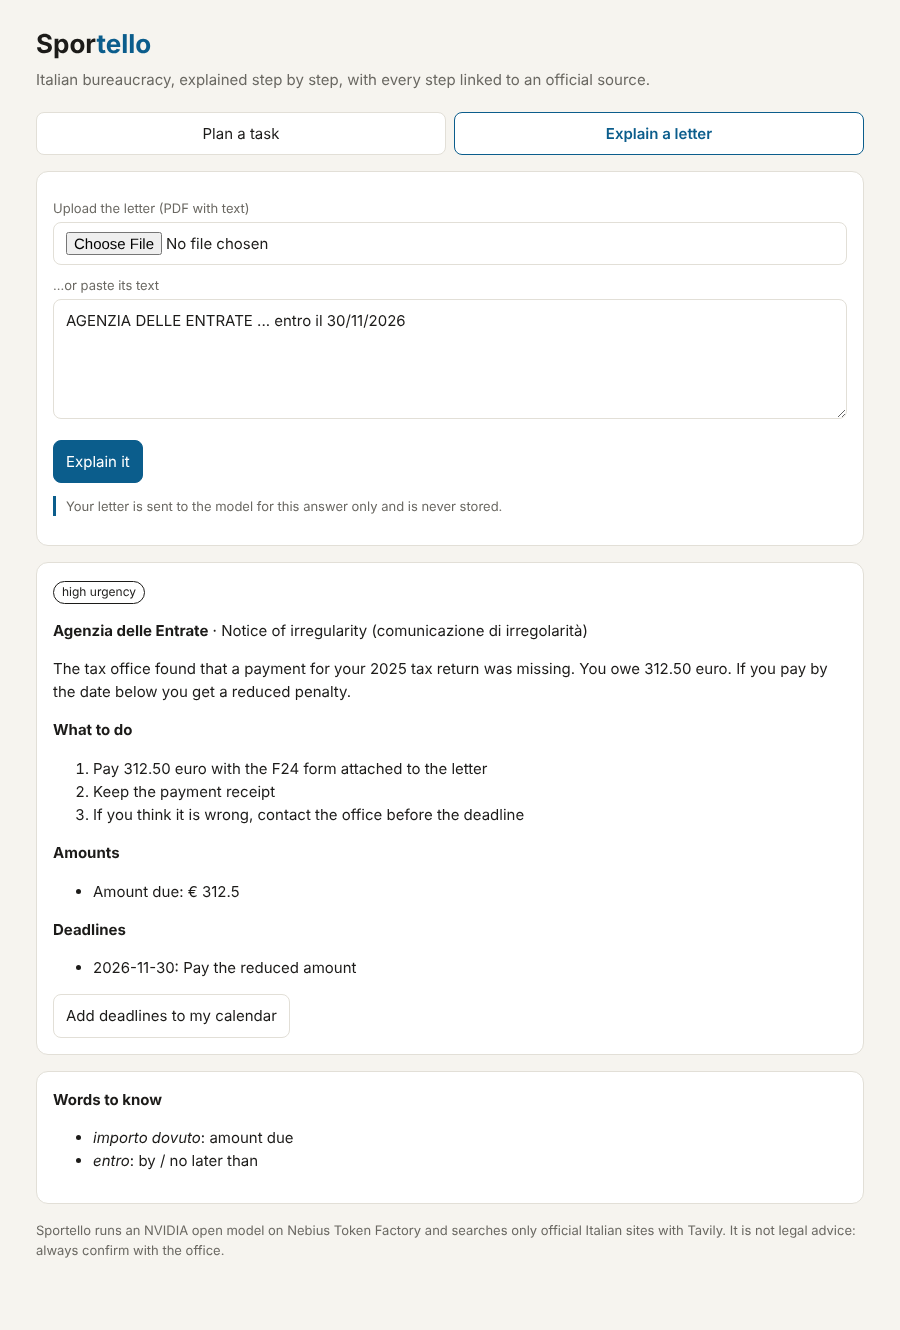
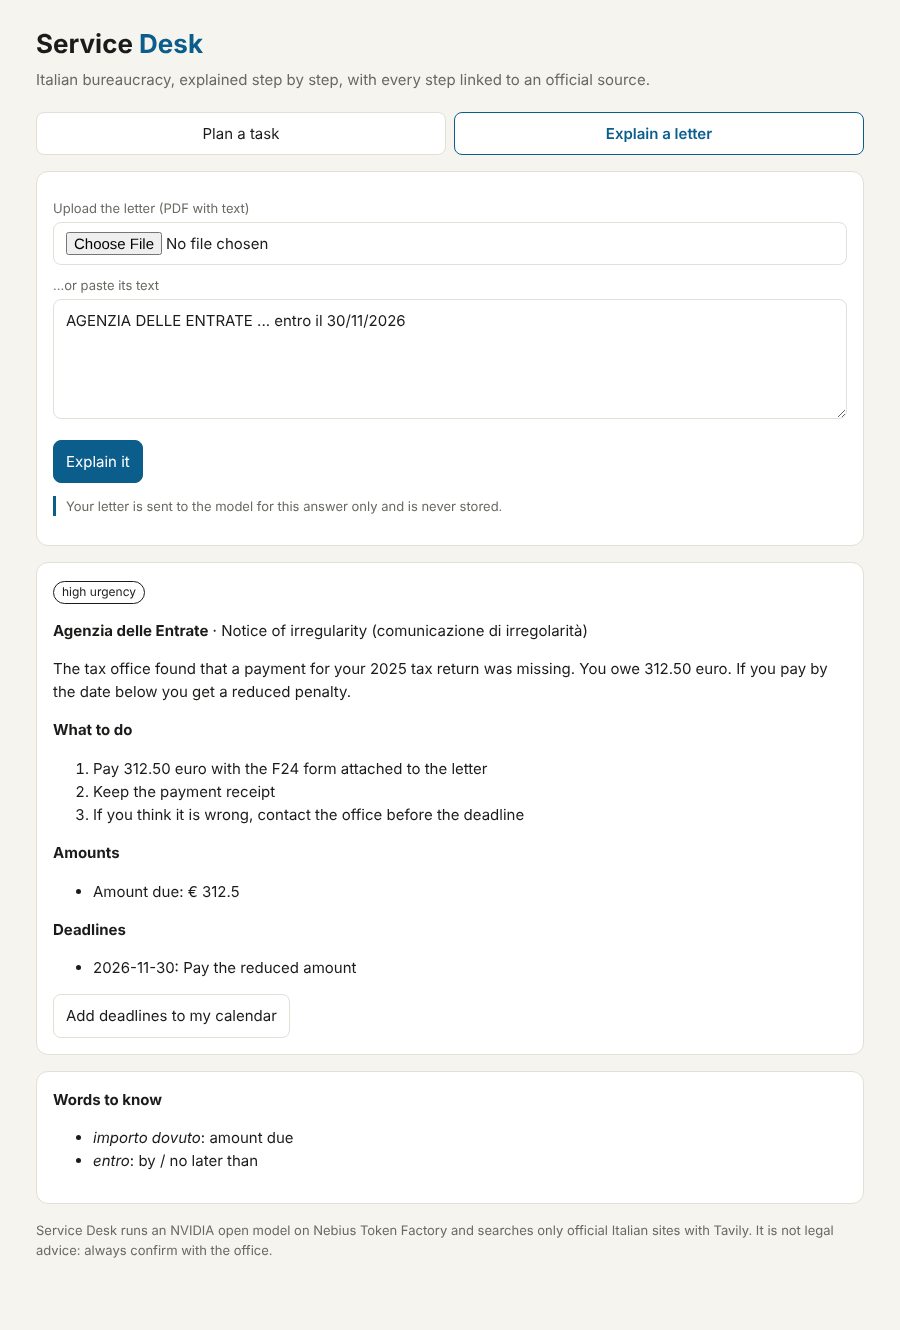
Use English project name
Claude-Session: https://claude.ai/code/session_012QdDDc8F3JcQnYvTX1pLuy

Changed region(s): [[0.0622, 0.9248, 0.3111, 0.9556], [0.0622, 0.0308, 0.2178, 0.0617]]

diff --git a/service_desk/static/index.html b/service_desk/static/index.html
@@ -3,7 +3,7 @@
 <head>
 <meta charset="utf-8">
 <meta name="viewport" content="width=device-width, initial-scale=1">
-<title>Sportello</title>
+<title>Service Desk</title>
 <style>
   :root { --bg:#f6f4ef; --card:#fff; --ink:#1c1b19; --muted:#6a6862; --line:#e2dfd7; --accent:#0b5d8c; --warn:#a4470f; }
   @media (prefers-color-scheme: dark) { :root { --bg:#141413; --card:#1e1e1c; --ink:#eceae4; --muted:#a3a19a; --line:#34332f; --accent:#6fb8e6; --warn:#f2a463; } }
@@ -33,7 +33,7 @@
 </head>
 <body>
 <div class="wrap">
-  <h1>Spor<span>tello</span></h1>
+  <h1>Service <span>Desk</span></h1>
   <p class="sub">Italian bureaucracy, explained step by step, with every step linked to an official source.</p>
 
   <div class="tabs">
@@ -68,7 +68,7 @@
     <div id="letter-out"></div>
   </section>
 
-  <p class="muted">Sportello runs an NVIDIA open model on Nebius Token Factory and searches only official Italian sites with Tavily. It is not legal advice: always confirm with the office.</p>
+  <p class="muted">Service Desk runs an NVIDIA open model on Nebius Token Factory and searches only official Italian sites with Tavily. It is not legal advice: always confirm with the office.</p>
 </div>
 <script>
 const $ = id => document.getElementById(id);
@@ -136,7 +136,7 @@ $("go-letter").onclick = async () => {
 async function downloadIcs() {
   const r = await fetch("/api/calendar.ics", {method: "POST", headers: {"Content-Type": "application/json"}, body: JSON.stringify({events: lastDeadlines})});
   const url = URL.createObjectURL(await r.blob());
-  Object.assign(document.createElement("a"), {href: url, download: "sportello.ics"}).click();
+  Object.assign(document.createElement("a"), {href: url, download: "service-desk.ics"}).click();
   URL.revokeObjectURL(url);
 }
 </script>

diff --git a/service_desk/core.py b/service_desk/core.py
@@ -1,4 +1,4 @@
-"""Sportello's two jobs: a cited step-by-step plan for a bureaucratic task, and a plain explanation of an official letter."""
+"""Service Desk's two jobs: a cited step-by-step plan for a bureaucratic task, and a plain explanation of an official letter."""
 
 from __future__ import annotations
 
@@ -131,13 +131,13 @@ def _date_forms(iso: str) -> list[str]:
 def ics(events: list[dict]) -> str:
     """An iCalendar file with one all-day event per deadline ({'what', 'date'})."""
     stamp = datetime.now(timezone.utc).strftime("%Y%m%dT%H%M%SZ")
-    lines = ["BEGIN:VCALENDAR", "VERSION:2.0", "PRODID:-//Sportello//EN", "CALSCALE:GREGORIAN"]
+    lines = ["BEGIN:VCALENDAR", "VERSION:2.0", "PRODID:-//Service Desk//EN", "CALSCALE:GREGORIAN"]
     for e in events:
         day = date.fromisoformat(e["date"]).strftime("%Y%m%d")
         summary = re.sub(r"[\r\n]+", " ", e["what"]).replace(",", "\\,").replace(";", "\\;")
         lines += [
             "BEGIN:VEVENT",
-            f"UID:{uuid.uuid4()}@sportello",
+            f"UID:{uuid.uuid4()}@service-desk",
             f"DTSTAMP:{stamp}",
             f"DTSTART;VALUE=DATE:{day}",
             f"SUMMARY:{summary}",

diff --git a/service_desk/main.py b/service_desk/main.py
@@ -1,4 +1,4 @@
-"""Sportello HTTP API and web UI. Nothing the user uploads is stored."""
+"""Service Desk HTTP API and web UI. Nothing the user uploads is stored."""
 
 from __future__ import annotations
 
@@ -14,7 +14,7 @@ from .clients import ServiceError
 STATIC = Path(__file__).resolve().parent / "static"
 MAX_UPLOAD = 5 * 1024 * 1024
 
-app = FastAPI(title="Sportello")
+app = FastAPI(title="Service Desk")
 
 
 @app.get("/")
@@ -73,4 +73,4 @@ def calendar(req: CalendarRequest):
         body = core.ics(req.events)
     except (KeyError, ValueError) as exc:
         raise HTTPException(400, f"each event needs 'what' and an ISO 'date': {exc}")
-    return Response(body, media_type="text/calendar", headers={"Content-Disposition": "attachment; filename=sportello.ics"})
+    return Response(body, media_type="text/calendar", headers={"Content-Disposition": "attachment; filename=service-desk.ics"})

diff --git a/tests/test_sportello.py b/tests/test_sportello.py
@@ -1,8 +1,8 @@
 import pytest
 from fastapi.testclient import TestClient
 
-from sportello import clients, core
-from sportello.main import app
+from service_desk import clients, core
+from service_desk.main import app
 
 SOURCES = [
     {"title": "Codice fiscale - Agenzia Entrate", "url": "https://www.agenziaentrate.gov.it/portale/codice-fiscale", "content": "Bring passport. Free of charge."},

diff --git a/README.md b/README.md
@@ -1,12 +1,12 @@
-# Sportello
+# Service Desk
 
 **Italian bureaucracy, explained step by step, with every step linked to an official source.**
 
 Moving to Italy means a codice fiscale, residency at the comune, the health service, maybe a permesso di soggiorno, SPID, an ISEE... Each office has its own rules, the pages are in Italian, and the advice on forums is often out of date. Then the letters arrive: *comunicazione di irregolarità*, *avviso di pagamento*, and you have no idea if it's urgent.
 
-Sportello is a personal assistant for exactly that:
+Service Desk is a personal assistant for exactly that:
 
-1. **Plan a task.** Pick what you need to do, your city and citizenship. Sportello searches **only official Italian websites** (gov.it, Agenzia delle Entrate, INPS, comuni...) and writes a step-by-step plan where **every step cites its source**. Steps the model could not back with a source are removed and you are told what is missing.
+1. **Plan a task.** Pick what you need to do, your city and citizenship. Service Desk searches **only official Italian websites** (gov.it, Agenzia delle Entrate, INPS, comuni...) and writes a step-by-step plan where **every step cites its source**. Steps the model could not back with a source are removed and you are told what is missing.
 2. **Explain a letter.** Upload or paste an official letter. You get a plain-English summary, what to do, amounts, urgency, the Italian words worth knowing, and deadlines you can add to your calendar. A deadline is only shown if that exact date appears in the letter.
 
 | Plan a task | Explain a letter |
@@ -29,7 +29,7 @@ flowchart LR
 ```
 
 - **Grounding, enforced in code.** The model must cite source numbers. Citations to sources that don't exist are dropped, and items left with no valid citation are removed and reported as gaps. If the search finds no official page, the model is not called at all.
-- **Two domain filters.** Tavily's `include_domains` restricts the search, and Sportello checks every returned URL again against the allowlist (it rejects look-alikes such as `agenziaentrate.gov.it.evil.com`).
+- **Two domain filters.** Tavily's `include_domains` restricts the search, and Service Desk checks every returned URL again against the allowlist (it rejects look-alikes such as `agenziaentrate.gov.it.evil.com`).
 - **Deadlines are never invented.** A date from the letter explanation is kept only if it is written in the letter (ISO, `30/11/2026`, `30.11.2026` or `30 novembre 2026`).
 - **Privacy.** Nothing is stored. Letters are sent to the model for one answer and dropped.
 - **Open models.** Inference runs on [Nebius Token Factory](https://tokenfactory.nebius.com) with an NVIDIA open model (Nemotron family) through its OpenAI-compatible API, so the same code runs on any self-hosted OpenAI-compatible server.
@@ -41,10 +41,10 @@ pip install -r requirements.txt
 export NEBIUS_API_KEY=...          # Nebius Token Factory
 export NEBIUS_MODEL=...            # an NVIDIA Nemotron model id from the Token Factory model list
 export TAVILY_API_KEY=...
-uvicorn sportello.main:app --reload
+uvicorn service_desk.main:app --reload
 ```
 
-Or with Docker: `docker build -t sportello . && docker run -p 8000:8000 -e NEBIUS_API_KEY -e NEBIUS_MODEL -e TAVILY_API_KEY sportello`.
+Or with Docker: `docker build -t service-desk . && docker run -p 8000:8000 -e NEBIUS_API_KEY -e NEBIUS_MODEL -e TAVILY_API_KEY service-desk`.
 
 | Variable | Default | |
 |---|---|---|
@@ -71,7 +71,7 @@ They cover the domain allowlist (including look-alike hosts), filtering of unoff
 
 ## Not legal advice
 
-Sportello helps you prepare. Rules change and differ between comuni: always confirm with the office.
+Service Desk helps you prepare. Rules change and differ between comuni: always confirm with the office.
 
 ## License
 
